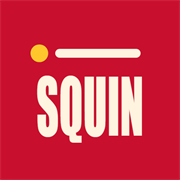
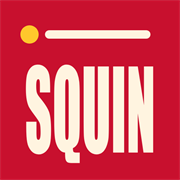
Agrandar las letras del icono de Squin
En el telefono las letras se veian chicas. Ahora SQUIN ocupa casi todo
el ancho del icono y el punto y la raya se hacen mas compactos. Se
agrega ?v=2 para que los telefonos descarguen la imagen nueva.

diff --git a/sw.js b/sw.js
@@ -1,5 +1,5 @@
 // Primero intenta la red para recibir actualizaciones; sin conexión usa la copia guardada.
-const CACHE = 'abarroteria-pos-v21';
+const CACHE = 'abarroteria-pos-v22';
 const FILES = [
   './', 'index.html', 'manifest.webmanifest', 'icons/icon-192.png', 'icons/apple-touch-icon.png', 'icons/favicon-32.png', 'css/styles.css', 'vendor/zxing.min.js',
   'js/app.js', 'js/core.js', 'js/db.js', 'js/services.js', 'js/ui.js', 'js/cart.js', 'js/catalog.js', 'js/sheets.js', 'js/name-suggest.js', 'js/product-names.js', 'js/photo.js', 'js/scanner.js', 'js/sounds.js', 'js/xlsx.js', 'js/xlsx-read.js', 'js/import-map.js',

diff --git a/index.html b/index.html
@@ -10,8 +10,8 @@
   <meta name="apple-mobile-web-app-title" content="Squin">
   <meta name="application-name" content="Squin">
   <link rel="manifest" href="manifest.webmanifest">
-  <link rel="icon" href="icons/favicon-32.png" type="image/png" sizes="32x32">
-  <link rel="apple-touch-icon" href="icons/apple-touch-icon.png" sizes="180x180">
+  <link rel="icon" href="icons/favicon-32.png?v=2" type="image/png" sizes="32x32">
+  <link rel="apple-touch-icon" href="icons/apple-touch-icon.png?v=2" sizes="180x180">
   <link rel="stylesheet" href="css/styles.css">
 </head>
 <body>
